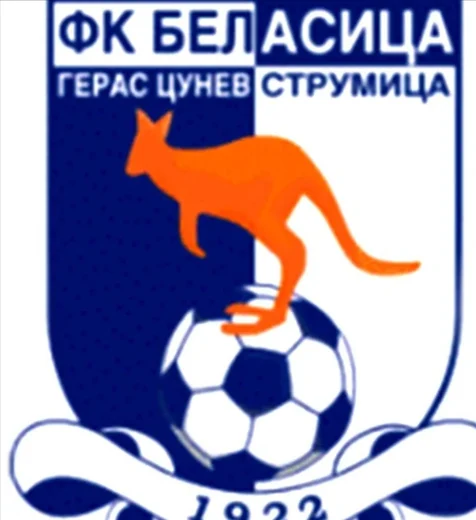
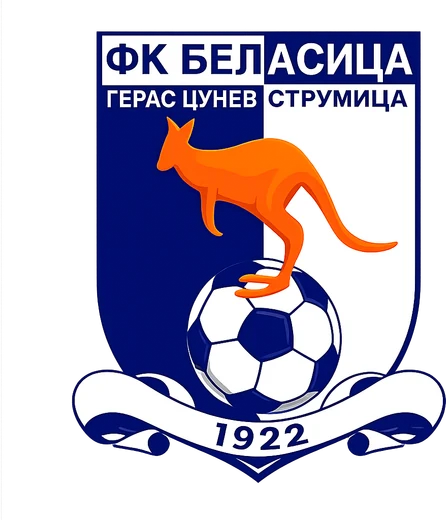
fix(почетна): трите грба во заглавието се без позадина (#53)
Трите марки во хероj-блокот се исечени од позадина: слот 1 → /crest.svg, zname-06/09 заменети со исечоци (webp q88 + alphaQuality 100). Висината од 520px и сите одлуки за пристапност се непроменети.

Одлуки: D-crest-3, D-crest-4, D-crest-5.

diff --git a/src/app/(site)/page.tsx b/src/app/(site)/page.tsx
@@ -192,18 +192,29 @@ const QUICK_LINKS: { href: string; label: string; sub: string }[] = [
 ];
 
 /**
- * The three pennants in the hero badge, in the owner's order (3.19): znamenca
+ * The three marks in the hero badge, in the owner's order (3.19): znamenca
  * 1, 6 and 9 of the set in `public/znamenca/`.
  *
- * `width`/`height` are the files' intrinsic pixels — all three are 520 tall,
- * which is what lets a single `h-*` normalise them into a set. They are listed
- * here rather than inline so the order is one edit, and so nothing about them
- * is duplicated between the markup and this table.
+ * All three are **background-free** — the artwork is cut out, so it sits on
+ * the navy and on the photograph without a white card behind it. Since 3.24
+ * that is true of every slot, where before it was true of none: the first is
+ * now `/crest.svg` itself (the same transparent vector the header renders —
+ * it was always the same pennant as `zname-01.webp`, only with its white
+ * background still attached), and 6 and 9 were replaced in place by
+ * owner-supplied cut-outs of the same two crests.
+ *
+ * `width`/`height` are intrinsic — 364/446/438 × **520**. The shared 520 is
+ * deliberate and survived the swap: it is what lets a single `h-*` + `w-auto`
+ * normalise three different shapes into a set. `/crest.svg` has no pixels of
+ * its own, so its pair is its viewBox (864×1233) reduced to that same height.
+ *
+ * Listed here rather than inline so the order is one edit, and so nothing
+ * about them is duplicated between the markup and this table.
  */
 const ZNAMENCA: { src: string; width: number; height: number }[] = [
-  { src: "/znamenca/zname-01.webp", width: 368, height: 520 },
-  { src: "/znamenca/zname-06.webp", width: 476, height: 520 },
-  { src: "/znamenca/zname-09.webp", width: 418, height: 520 },
+  { src: "/crest.svg", width: 364, height: 520 },
+  { src: "/znamenca/zname-06.webp", width: 446, height: 520 },
+  { src: "/znamenca/zname-09.webp", width: 438, height: 520 },
 ];
 
 /** Last-resort hero alt — used only when nothing on the photo names it. */
@@ -352,10 +363,17 @@ export default async function Home() {
               rectangle only read as a sticker (owner decision, 3.06a,
               superseding D-crest-2).
 
-              Since 3.19 the badge is THREE pennants rather than the single
-              crest (owner instruction, Ace): znamenca 1, 6 and 9, in that
-              order. `/crest.svg` is unchanged and still the header's mark —
-              only this hero swapped. */}
+              Since 3.19 the badge is THREE marks rather than the single crest
+              (owner instruction, Ace): znamenca 1, 6 and 9, in that order.
+
+              3.24 made that decision literal. Until then the three were
+              scans WITH their white backgrounds, so the „no panel" above was
+              defeated by the files themselves — each one painted its own
+              white rectangle onto the navy, which is the sticker 3.06a threw
+              out. All three are now cut out, so the artwork really does carry
+              itself. `/crest.svg` is unchanged and still the header's mark;
+              slot 1 now points at it directly rather than at a second copy of
+              the same pennant. */}
           <div className="flex flex-wrap items-end gap-5 lg:gap-8">
             <div className="relative z-10 -mt-9 flex-none md:-mt-11 lg:-mt-14">
               {/* One accessible object, not three. The three pennants are the
@@ -371,10 +389,15 @@ export default async function Home() {
                 aria-label="Три знаменца на ФК Беласица"
                 className="flex items-end gap-3 md:gap-4"
               >
-                {/* Normalised by HEIGHT, not width: all three scans are 520px
-                    tall with different widths (368 / 476 / 418), so one `h-*`
+                {/* Normalised by HEIGHT, not width: all three are 520px tall
+                    with different widths (364 / 446 / 438), so one `h-*`
                     plus `w-auto` makes them read as a set and each keeps its
-                    own proportions. Heights are ~2/3 of the single crest's
+                    own proportions. Since 3.24 that height is the ARTWORK's,
+                    not a scan's — cutting the backgrounds out also trimmed
+                    the white margins each file used to carry, so the same
+                    `h-*` now renders visibly bigger marks. That is the
+                    intended result, not drift: the box was always mostly
+                    padding. Heights are ~2/3 of the single crest's
                     (h-24/32/40) so three side by side do not outweigh the
                     wordmark; below `md` the row simply wraps onto its own line
                     above the <h1> rather than shrinking to illegibility.

diff --git a/src/_project-state/current-state.md b/src/_project-state/current-state.md
@@ -72,7 +72,7 @@ See `src/_project-state/00_stack-and-config.md` (only source; exact pins). **3.0
 
 - `src/app/layout.tsx` — bare root layout: `<html lang="mk">`/`<body>`, fonts, `globals.css`, `<Analytics/>`, site metadata, crest favicon set (`icon.png`/`apple-icon.png`/`favicon.ico`, on main via PR #7).
 - `src/app/(site)/layout.tsx` — site chrome: pre-paint `.js` flag script (D-1.05-5) + skip link + `SiteHeader` + `<main>` + `SiteFooter`.
-- `src/app/(site)/page.tsx` — **the homepage**, **rebuilt at 3.03** to the seven-section heritage-and-legends-led flow (Hero → Story → Legends → Numbers → Decade explore → Moment → Quick links); one `HOME_QUERY` round trip; ISR `revalidate = 60`. Hero = the most-recent season's `teamPhoto` (`order(decade desc, title desc)`, fallback newest photo); legends = players sorted portraits-first then name (D-3.03-2); records = `clubRecord` docs; decades = per-decade counts reduced in JS; moment = the deterministic captioned+season-anchored+landscape photo (oldest era, widest crop, D-3.03-4). Legend cards equalised to full height via a homepage-scoped grid variant (LegendCard untouched). The old 8-section page (featured season, gallery mosaic, dot-rail timeline) was **replaced**. **3.10 — the hero is pinned to the 1982/83 squad photograph**, in code rather than as a Sanity field: `HERO_SEASON_SLUG`/`HERO_PHOTO_ID` constants feed the query as parameters and a new `heroPinned` lookup sits *beside* the two older sources, so resolution is pinned → newest-season → newest-photo and unpublishing the pinned season silently falls back instead of showing a placeholder (exercised, D-3.10-4). Alt resolves in that same order („Тимска фотографија — Сезона 1982/83", derived from the fetched title). Hero box `4/5 → 3/2` at base, `objectPosition 32% → 38%`; `moment` now excludes the hero photo by `_id` (D-3.10-5). **3.19 — the badge is three pennants, not the crest:** a `ZNAMENCA` module table drives three plain `<img loading="lazy">` from `public/znamenca/`, normalised by **height** (`h-16/20/28` + `w-auto`; all three scans are 520px tall) and wrapped in **one** `role="img"` + `aria-label`, with `alt=""` on each — one accessible object, not three (D-3.19-4). `/crest.svg` is untouched and still the header's mark. **Also 3.19 — `HOME_QUERY`'s `legends` projection gained `careerStats { appearances }`**, without which this band showed a count on 2 of its 10 cards while `/legendi` showed one on all it could — the same ten people described differently, which `HomeData`'s own type comment forbids (D-3.19-3). Now 8 of 10; the two blanks (Ефтимов, Пантазиев) hold neither field and are blank on both pages.
+- `src/app/(site)/page.tsx` — **the homepage**, **rebuilt at 3.03** to the seven-section heritage-and-legends-led flow (Hero → Story → Legends → Numbers → Decade explore → Moment → Quick links); one `HOME_QUERY` round trip; ISR `revalidate = 60`. Hero = the most-recent season's `teamPhoto` (`order(decade desc, title desc)`, fallback newest photo); legends = players sorted portraits-first then name (D-3.03-2); records = `clubRecord` docs; decades = per-decade counts reduced in JS; moment = the deterministic captioned+season-anchored+landscape photo (oldest era, widest crop, D-3.03-4). Legend cards equalised to full height via a homepage-scoped grid variant (LegendCard untouched). The old 8-section page (featured season, gallery mosaic, dot-rail timeline) was **replaced**. **3.10 — the hero is pinned to the 1982/83 squad photograph**, in code rather than as a Sanity field: `HERO_SEASON_SLUG`/`HERO_PHOTO_ID` constants feed the query as parameters and a new `heroPinned` lookup sits *beside* the two older sources, so resolution is pinned → newest-season → newest-photo and unpublishing the pinned season silently falls back instead of showing a placeholder (exercised, D-3.10-4). Alt resolves in that same order („Тимска фотографија — Сезона 1982/83", derived from the fetched title). Hero box `4/5 → 3/2` at base, `objectPosition 32% → 38%`; `moment` now excludes the hero photo by `_id` (D-3.10-5). **3.19 — the badge is three pennants, not the crest:** a `ZNAMENCA` module table drives three plain `<img loading="lazy">` from `public/znamenca/`, normalised by **height** (`h-16/20/28` + `w-auto`; all three are 520px tall) and wrapped in **one** `role="img"` + `aria-label`, with `alt=""` on each — one accessible object, not three (D-3.19-4). **2026-08-17 — all three are now background-free** (D-crest-3…-5): 6 and 9 were replaced in place by owner-supplied cut-outs, and slot 1 now points straight at `/crest.svg` instead of a second copy of the same pennant, so the „no white panel" the lockup has claimed since 3.06a is finally true of the files themselves. Widths changed 368/476/418 → **364/446/438**; the 520 height and every accessibility decision are unchanged. `/crest.svg` is untouched and still the header's mark — the hero now shares it rather than duplicating it. **Also 3.19 — `HOME_QUERY`'s `legends` projection gained `careerStats { appearances }`**, without which this band showed a count on 2 of its 10 cards while `/legendi` showed one on all it could — the same ten people described differently, which `HomeData`'s own type comment forbids (D-3.19-3). Now 8 of 10; the two blanks (Ефтимов, Пантазиев) hold neither field and are blank on both pages.
 - `src/app/studio/[[...tool]]/page.tsx` — embedded Sanity Studio at `/studio`.
 - `src/app/(site)/arhiva/page.tsx` — **Archive index** (2.03): decade-grouped season cards from live content, sticky jump-nav, real counts. ISR 60.
 - `src/app/(site)/arhiva/[slug]/page.tsx` — **Season detail** (2.03): `generateStaticParams` over every published slug, self-omitting sections, all-empty notice, photo/photoless hero. ISR 60. **3.13 — two of the five sections were renamed:** `story` is now rail „Преглед" / heading **„Преглед"**, and `staff` is rail „Играчи" / heading **„Играчи и тренер"** (D-3.13-1). The section **`id`s are unchanged — `prikazna` and `trener`** — so `#prikazna`/`#trener` links already shared still resolve; the `id` deliberately no longer matches the label and a comment on each says so (D-3.13-3). The `<h3>` „Тренер: <име>" inside the staff section is untouched. The `SECTIONS` doc comment’s stale „every section renders on every page" claim (reversed at 3.06a) was corrected at the same time (D-3.13-2). Verified: the rendered `<section id>` set is **byte-identical to `main` across all 96 season pages**.
@@ -95,7 +95,7 @@ See `src/_project-state/00_stack-and-config.md` (only source; exact pins). **3.0
 - `src/components/` — `SiteHeader.tsx` (**sticky** navy bar — `sticky top-0 z-40` + `border-paper/10`; **refreshed 3.03**: hamburger is now a 44px tap target via `p-2.5` — header still 77px; inactive nav items gain a non-color `hover:border-paper/40` underline), `SiteFooter.tsx` (**redesigned 3.03**: brand block + **Навигација / Контакт / Следете нѐ** columns + copyright — the old demo contact/social values are **removed**, now visible `[PLACEHOLDER]` chips for email + socials; the „неофицијална архива" label + statement come from `src/lib/facts.ts`; dynamic copyright year; crest on a white tile — D-crest-1), `Container.tsx`; plus `fonts.ts`, `lib/nav.ts`, `lib/utils.ts`, `lib/facts.ts`, `lib/focus.ts`. `globals.css` has the reveal + placeholder-hatch utilities.
 - `src/sanity/env.ts` · `client.ts` · `image.ts` · `structure.ts` — connection, read client, image builder, Studio desk structure.
 - `src/sanity/schemaTypes/` — the model (2.01 lock, **re-opened additively for Part 3 at 3.01**, re-locked after 3.06): `index.ts` + `siteSettings`, `season`, `person`, `photo`, **`clubRecord`** (new at 3.01). `match.ts` is in-repo but **unregistered** (deferred, D-2.01-2). **`season` (3.01, D-3.01-1..7):** after `story` it now has five **optional** fields — `teamPhoto` + `tablePhoto` (`reference → photo`, picker filtered to the same season via `options.filter`), `trainer` (string, the new primary trainer field), `lineupAndStats` + `results` (portable text, same `block` config as `story`) — then the **legacy** `finalTable`/`squad`/`trainers` (unchanged in shape; descriptions now say „Задржано за компатибилност…"). **`clubRecord`** (`clubRecord.ts`, D-3.01-5): curated Statistics records — `label` (req), `value` (req), `category` (radio: scorers/appearances/honours/other), `order`; shown in `/studio` as „Клупски рекорди" (plural desk title set in `structure.ts`). Photos link **one direction only**: `photo.relatedSeason` / `photo.relatedPerson`, read by GROQ back-reference — the `season.photos`/`person.photos` arrays no longer exist (D-2.01-1). `season.decade` required; `season.slug`/`person.slug` unique per type via `src/sanity/lib/isUniqueSlug.ts` (D-2.01-6). All 3.01 changes are additive/optional (D-3.01-6) — the 96 existing seasons stay valid. Schema deployed to workspace `belasica-v2` (never the stray `default`, D-2.01-8).
-- `public/crest.png` — crest artwork (on main); since 2026-07-30 the white outside the pennant outline is transparent (D-crest-2 — dimensions still 864×1220, so the OG metadata in `layout.tsx` is unchanged; OG scrapers now composite the crest on their own background). `public/znamenca/` — **new 3.19**: `zname-01/06/09.webp`, the three pennant scans the homepage hero renders in place of the crest (368/476/418 × **520**, ~110 KB total). Owner-supplied, numbers 1, 6 and 9 of a larger set in his order; the rest are not in the repo. ⚠ **What they depict is recorded nowhere** — no `facts.md` entry (OV-46). `sanity.config.ts` / `sanity.cli.ts` (repo root) — Studio + CLI config.
+- `public/crest.png` — crest artwork (on main); since 2026-07-30 the white outside the pennant outline is transparent (D-crest-2 — dimensions still 864×1220, so the OG metadata in `layout.tsx` is unchanged; OG scrapers now composite the crest on their own background). `public/znamenca/` — **new 3.19, cut out 2026-08-17**: the marks the homepage hero renders in place of the crest, numbers 1, 6 and 9 of a larger set in the owner's order; the rest are not in the repo. `zname-06.webp` (446×520, 57 KB) and `zname-09.webp` (438×520, 44 KB) are now owner-supplied **background-free** replacements of the original scans; the hero's slot 1 is `/crest.svg`, so ⚠ **`zname-01.webp` (368×520, 61 KB) is orphaned but deliberately kept** as the archival scan (D-crest-3…-5). ⚠ **What they depict is recorded nowhere** — no `facts.md` entry (OV-46). `sanity.config.ts` / `sanity.cli.ts` (repo root) — Studio + CLI config.
 
 ## Tracked data & scripts — NOT application code (3.11)
 

diff --git a/src/_project-state/decisions.md b/src/_project-state/decisions.md
@@ -2840,3 +2840,27 @@
 - **Alternatives considered:** *Fix all six* — rejected: two are Sanity content, two are the owner's design calls on a page he just had rebuilt, one is a naming judgement for Ace, and one is a feature. Making any of them silently would repeat this project's recorded failure mode of shipping unreviewed changes to the owner's own pages. *Downgrade them to P3 so the DoD reads clean* — rejected outright: they are P2, and saying so is the point.
 - **Consequences:** The DoD line „every P1 and P2 code finding is fixed" **does not pass as written**; 8 of 14 are fixed and the other 6 are documented here, in the audit and in §4 of the completion report. Four of the six need an owner or Ace decision before anyone can act.
 - **Links:** `docs/audits/Part-3-Phase-23-Audit.md` §2; D-3.04-10; OV-36; OV-42; D-3.22-2.
+
+### D-crest-3 · 2026-08-17 · The two hero crests replaced in place with owner-supplied cut-outs, as lossy webp q88 (out-of-phase, owner-requested)
+- **Status:** Accepted
+- **Context:** Lazar asked to swap the homepage hero's three marks for background-free versions, supplying cut-outs of the second (кенгур) and third („Б") and noting one already existed for the first. The originals (`zname-06.webp` 476×520, `zname-09.webp` 418×520) were scans on white, which defeated the „no panel behind the badge" the lockup has claimed since **3.06a** — each file painted its own white rectangle onto the navy, which is exactly the sticker D-3.06a threw out. Both supplied files carry a real alpha channel (verified: `min=0, max=255`) and are faithful to the originals — same lettering, layout, ribbon and 1922 — but are clean redraws rather than the raster scans, and their bottom ribbons are complete where the scans were cropped.
+- **Decision:** Replace both **in place**, keeping the filenames, so the owner's 1/6/9 numbering — which `file-map.md`, the completion report and **OV-46** all cite — keeps meaning what it says. Trim to the artwork, resize to the set's existing **520px height**, encode **lossy webp `quality:88` + `alphaQuality:100`** → 446×520/57 KB and 438×520/44 KB.
+- **Alternatives considered:** *Lossless webp* — rejected: 154 KB and 172 KB for art that renders at 112 px (a 4.6× downscale); a 3× zoom of the hardest edge (flat orange on navy) is indistinguishable from lossless at q88. *New filenames describing the artwork* — rejected: it would orphan the numbering three documents depend on. *Key the white out of the existing scans instead of using the supplied files* — rejected: the scans are 476/418 px of JPEG-fringed source and would halo on the shield edges.
+- **Consequences:** The two original scans survive only in git history. ⚠ **The supplied files came out of an image model** (filenames `ChatGPT Image …`), so they are cleaned redraws, not digitizations of an object — the same relationship `/crest.svg` already has to its raster lineage (3.05b, „the same artwork as the raster lineage, not a new crest"), but it is now true of two more marks and is recorded here rather than left to be discovered. Trimming also removed the white margins the files used to carry, so the same `h-*` renders visibly larger marks — intended, since the box was mostly padding.
+- **Links:** D-crest-1; D-crest-2; D-crest-4; D-crest-5; D-3.19-4; D-3.09-2; OV-46; `src/app/(site)/page.tsx`; `public/znamenca/`.
+
+### D-crest-4 · 2026-08-17 · The hero's first slot points at `/crest.svg` rather than a fourth copy of the same pennant
+- **Status:** Accepted
+- **Context:** `zname-01.webp` and `/crest.svg` are the **same pennant** — the former a scan on white, the latter the traced, repaired vector master (3.05b) that the header already renders and that has had no background since D-crest-2. A transparent raster of it also already existed twice over, as `/crest.png` (864×1220) and the unreferenced `/crest-ui.webp` (400×565).
+- **Decision:** Point the `ZNAMENCA` table's first entry at **`/crest.svg`** and generate nothing. Its intrinsic pair is its viewBox reduced to the set's height (864×1233 → **364×520**), so the shared-520 invariant that lets one `h-*` normalise the row survives even though the file has no pixels.
+- **Alternatives considered:** *`/crest.png`* — rejected: 198 KB raster where a vector already renders at every size. *`/crest-ui.webp`* — rejected: it is referenced by nothing and reviving a dormant asset for one slot adds a lineage to explain. *Cut the background out of `zname-01.webp` to keep all three in one folder* — rejected: it would be a fourth copy of an artwork the repo already holds three times, and the worst-quality one.
+- **Consequences:** The hero and the header now render the **same file**, so the homepage makes one fewer request and the two can no longer drift apart. The code comment claiming „`/crest.svg` is unchanged and still the header's mark — only this hero swapped" was reworded: it is still unchanged, but the hero now shares it rather than avoiding it.
+- **Links:** D-crest-2; D-crest-3; D-crest-5; D-3.19-4; `src/components/SiteHeader.tsx`; `public/crest.svg`.
+
+### D-crest-5 · 2026-08-17 · `zname-01.webp` left in the repo, orphaned, rather than deleted
+- **Status:** Accepted
+- **Context:** With slot 1 pointing at `/crest.svg` (D-crest-4), `public/znamenca/zname-01.webp` (368×520, 61 KB) is referenced by nothing in `src/` — confirmed by grep.
+- **Decision:** Leave it committed and record that it is orphaned, in `file-map.md` and here.
+- **Alternatives considered:** *Delete it* — rejected: it is **owner-supplied source material** and the only digitization of that physical pennant in the repo; deleting an archival scan on an archive project is the owner's call, not the executor's, and the 61 KB is a static file nothing requests. *Move it to a `_source/` folder* — rejected: it would invent a convention this repo does not have, for one file.
+- **Consequences:** 61 KB ships in `public/` and is never requested. If the owner wants slot 1 to be the scan rather than the vector, the file is still there and it is one line in the `ZNAMENCA` table.
+- **Links:** D-crest-3; D-crest-4; `public/znamenca/zname-01.webp`; `file-map.md`.

diff --git a/src/_project-state/file-map.md b/src/_project-state/file-map.md
@@ -222,7 +222,7 @@
 - `public/razno/<slug>/<slug>-NN.webp` — **new 3.20**, the „Разно" topics' photographs: **64 files, 9,3 MB**, one folder per topic — `tiverija` 3 · `viaredzo-kup` 5 · `kup-na-uefa` 6 · `stadion-blagoj-istatov` 6 · `partizan` 7 · `ajduci` 8 · `mladinska-skola` 29. Optimised to WebP ahead of time at the size the grid shows them, and rendered by plain `<img>` — never `next/image`, so none of the 64 reaches the Vercel optimiser (D-3.20-7). ⚠ **Not Sanity assets**: no `photo` document, no `provenance` field, so **Ace cannot manage these in Studio** and nothing in the repo records where they came from (D-3.20-1, OV-51)
 - `src/content/razno-photos.ts` — **new 3.20**, **GENERATED**: `RAZNO_PHOTOS` keyed by topic slug, each entry `src` + intrinsic `width`/`height` + optional `caption`. Written once from the optimisation run's manifest and checked against `public/razno/`; **the manifest is scratch and is not a build dependency** — nothing imports JSON at runtime, and it is deliberately not committed. Regenerate rather than hand-edit. `caption` is **absent for 35 of the 64** because the archive holds no description of them (D-3.20-6)
 - `src/components/razno/RaznoPhotoGrid.tsx` — **new 3.20**, the topics' „Фотографии" gallery. A **server** component: three up, `3/2` matted frames, captions in the archive's anatomy. Deliberately **not** `PhotoGrid`, which is Sanity-shaped end to end; the **lightbox is reused unchanged**, because D-3.05b-3 had already split it so the server passes plain `url · width · height · caption` (D-3.20-2)
-- `public/znamenca/` — **new 3.19**, the three pennant scans the homepage hero renders in place of the single crest: `zname-01.webp` (368×520, 61 KB), `zname-06.webp` (476×520, 22 KB), `zname-09.webp` (418×520, 26 KB). Owner-supplied, and **numbers 1, 6 and 9 of a larger set in the owner's own order** — the other numbers are not in the repo. All three are **520px tall** by design, which is what lets one `h-*` + `w-auto` normalise them into a set. Listed in a `ZNAMENCA` table in `page.tsx` rather than inline, so the order is one edit. Rendered as plain `<img loading="lazy">` (never `next/image`) for the same reason the crest was — the page's LCP is the hero photograph behind them (D-3.09-2). ⚠ **What they depict, and from when, is recorded nowhere** — `facts.md` has no entry, so the `aria-label` names the group and dates nothing (D-3.19-4, OV-46)
+- `public/znamenca/` — **new 3.19, cut out 2026-08-17**, the marks the homepage hero renders in place of the single crest, **numbers 1, 6 and 9 of a larger set in the owner's own order** (the other numbers are not in the repo). All three are now **background-free**, where all three used to be scans on white: `zname-06.webp` (446×520, 57 KB) and `zname-09.webp` (438×520, 44 KB) were **replaced in place** by owner-supplied cut-outs (D-crest-3), and **slot 1 no longer lives in this folder at all** — the `ZNAMENCA` table points at `/crest.svg`, which was always the same pennant with its background already gone (D-crest-4). ⚠ **`zname-01.webp` (368×520, 61 KB) is therefore ORPHANED** — still committed, referenced by nothing; kept as the archival scan rather than deleted, since it is owner-supplied source material (D-crest-5). The shared **520px height survived the swap** and is still what lets one `h-*` + `w-auto` normalise three shapes into a set; `/crest.svg` has no pixels, so the table carries its viewBox reduced to that height (364×520). Cut-outs are **lossy webp q88 + `alphaQuality:100`**, not lossless — lossless cost 154/172 KB for art that renders at 112 px (D-crest-3). Rendered as plain `<img loading="lazy">` (never `next/image`) for the same reason the crest was — the page's LCP is the hero photograph behind them (D-3.09-2); verified still un-preloaded in the built HTML after the swap. ⚠ **What they depict, and from when, is still recorded nowhere** — `facts.md` has no entry, so the `aria-label` names the group and dates nothing (D-3.19-4, OV-46)
 - `public/llms.txt` — **new at 3.23 (B7)**, a plain-text description of the archive for AI answer engines, in Macedonian. States the unofficial-archive status in its **first two lines**, then what the archive holds with counts taken from **live data** (96 сезони 1922–2026, **211** личности, 7 теми — not the brief's stale „~160"), the main section URLs, the copy-permission line matching the footer's `CONTENT_PERMISSION_NOTICE` verbatim, and the sitemap URL. ⚠ **Hardcodes the origin** — `public/` is static and cannot import `SITE_URL`, so this is the fourth place to edit at cutover; `src/lib/site.ts` says so.
 - ~~`public/*.svg` — create-next-app default static assets (next/vercel/file/globe/window)~~ — **DELETED at 3.23 (C5).** All five (`file.svg`, `globe.svg`, `next.svg`, `vercel.svg`, `window.svg`) were Phase-1.01 scaffolding with **0 references** anywhere in `src/`, `public/`, `docs/` or `scripts/`, confirmed by grep before removal.
 
